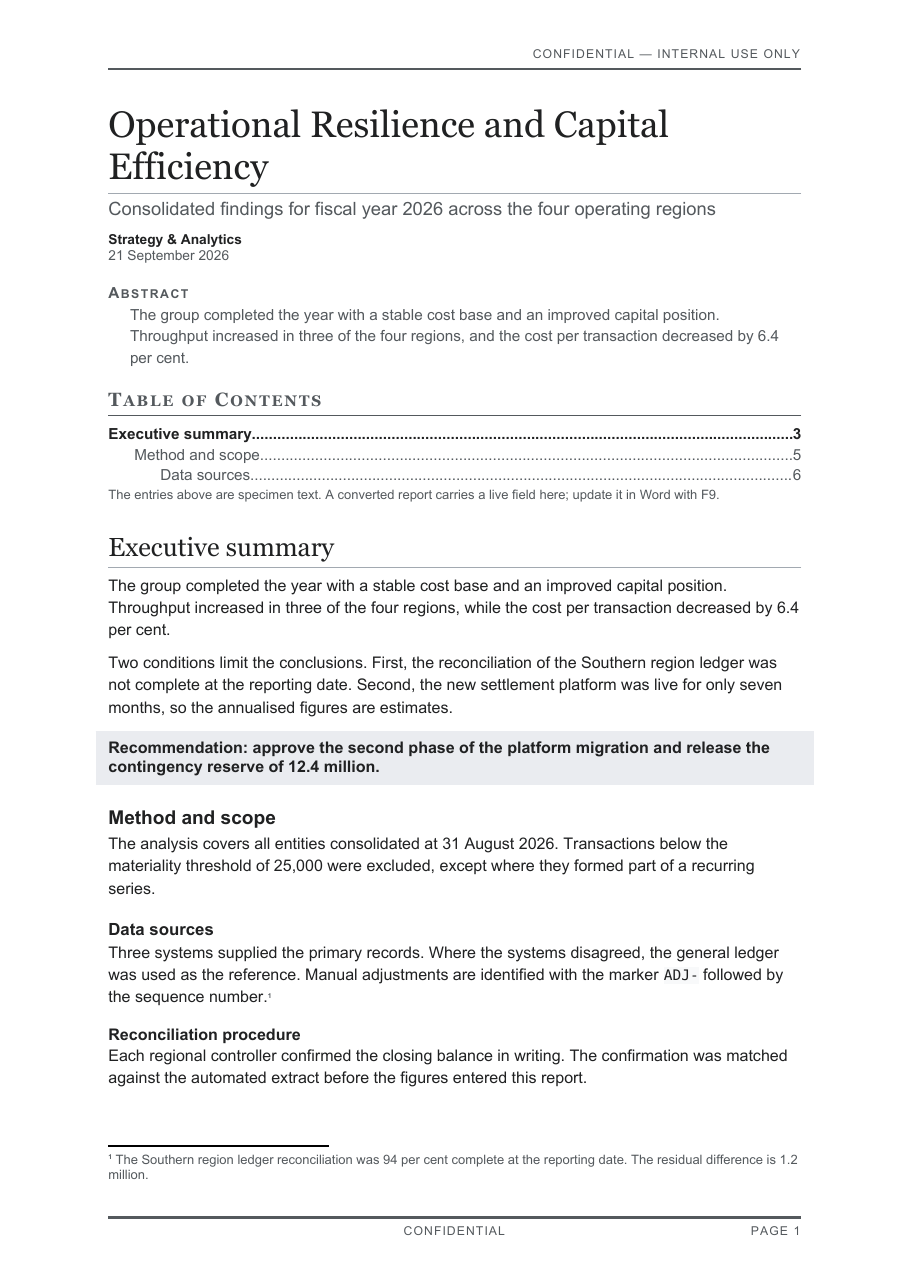
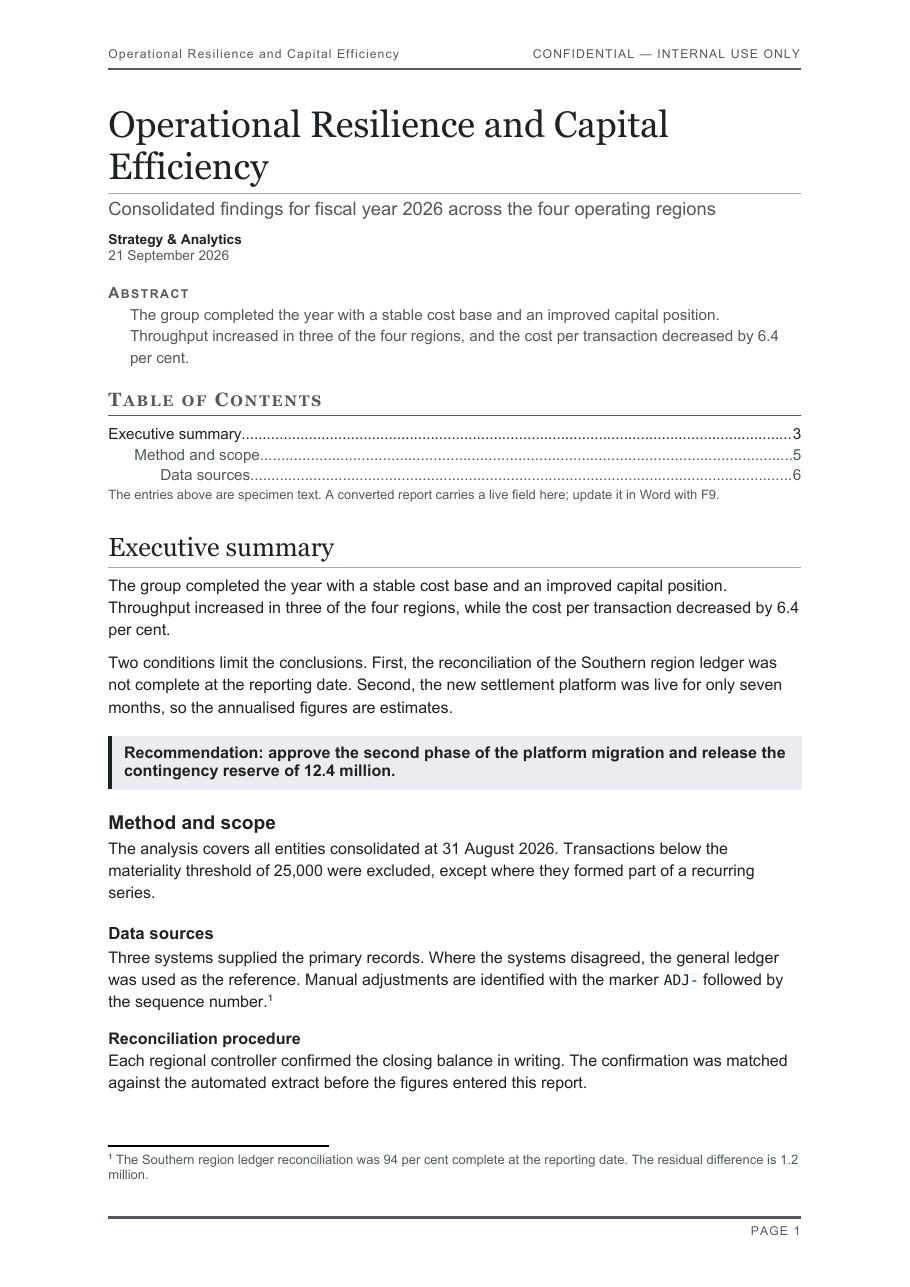
Refresh previews and README for the template fixes
Previews show the aligned boxes, restored accent bars, three-level numbering and the
titled running head. The README describes the head, numbering depth and hyphenation.

Claude-Session: https://claude.ai/code/session_01T3fp19CDdFKnm2BANxdQC1

Changed region(s): [[0.1231, 0.5594, 0.8615, 0.8702], [0.1231, 0.3108, 0.2769, 0.3419], [0.4923, 0.9324, 0.5231, 0.9635]]

diff --git a/README.md b/README.md
@@ -21,7 +21,7 @@ inventory always matches the installed pandoc (built and tested against pandoc 3
 
 | File | Style | Typeface | Accent | Headings | Tables | Density |
 |---|---|---|---|---|---|---|
-| `chancery-reference.docx` | A — classic executive | Aptos | Burgundy `8C1D34` | numbered 1.1.1, rule under H1 | hairline, rules only | medium, justified |
+| `chancery-reference.docx` | A — classic executive | Aptos | Burgundy `8C1D34` | numbered 1.1.1, rule under H1 | hairline, rules only | medium, justified and hyphenated |
 | `meridian-reference.docx` | B — modern and open | Aptos | Burgundy `8C1D34` | unnumbered, large and light | open, banded rows | low, much air |
 | `atlas-reference.docx` | D — bold editorial | Aptos | Burgundy `8C1D34` | unnumbered, heavy, accent rule above H1 | charcoal header band | medium |
 | `foundry-reference.docx` | C — dense technical | Calibri | Slate blue `21456E` | numbered 1.1.1, reversed H1 bar | full grid | high |
@@ -32,8 +32,8 @@ inventory always matches the installed pandoc (built and tested against pandoc 3
 spacing and colour, headings flush to the margin. Use it when Word keeps discarding
 style numbering, or when you would rather number with `--number-sections`.
 
-Differences that carry the identity: A justifies its text, numbers its headings and
-keeps every rule hairline. B triples the white space, drops numbering and sets a 32 pt
+Differences that carry the identity: A justifies and hyphenates its text, numbers its
+headings and keeps every rule hairline. B triples the white space, drops numbering and sets a 32 pt
 light title. D reverses the title block out of burgundy and runs a charcoal header band
 across its tables. E follows an encyclopedia page: serif title and top-level headings
 over a hairline rule, sans text, grey-framed tables, and colour only in code keywords,
@@ -98,7 +98,7 @@ serif character with a one-word change, if that matters more than the single typ
 
 ## Look before you choose
 
-Open any of them in Word. The body is a three-page specimen report using every
+Open any of them in Word. The body is a short specimen report using every
 style: title block, headings to level six, lists, definitions, quote, note and caution
 blocks, a table with caption and source note, a figure placeholder, an equation, a code
 block, a footnote, and static table of contents entries.
@@ -106,8 +106,9 @@ block, a footnote, and static table of contents entries.
 Pandoc reads only styles, numbering, page setup and the running head and foot from these
 files. The specimen text is discarded on every conversion.
 
-The running head carries the classification alone; the foot carries the classification
-and a page field. Both are placeholders — edit them once in the reference document.
+The running head shows the report title on the left, through a `STYLEREF` field on the
+Title style, and the classification on the right. The foot carries the page number. The
+classification is a placeholder — edit it once in the reference document.
 
 ## What the templates style
 
@@ -142,7 +143,9 @@ number.
 
 ## Heading numbers
 
-A and C number headings from a multilevel list bound to Heading 1–5. Word keeps
+A and C number headings from a multilevel list bound to Heading 1–3; deeper levels are
+not numbered. In C every number hangs at 1.5 cm, so all heading text starts on one
+edge. Word keeps
 style-linked numbering only when the file is written the way Word itself writes it, so
 the definition is a matched set:
 
@@ -165,6 +168,8 @@ Pandoc then writes each number as a run in the `Section Number` character style,
 followed by a tab. That style carries no formatting of its own, so numbers inherit the
 heading they sit in, and every numbered heading style has a tab stop at the matching
 indent.
+
+`--number-sections` numbers every level, not only the first three.
 
 Use one route or the other, never both: with style numbering still active,
 `--number-sections` produces headings that read `1 1 Executive summary`. For C, the
@@ -215,7 +220,9 @@ Source: consolidated ledger extract, 31 August 2026.
 ## Things to do by hand in Word
 
 - Update the TOC field (F9). Pandoc cannot fill it.
-- Edit the header and foot placeholder text in the reference document, not in reports.
+- Edit the classification in the reference document's head, not in reports.
+- Give every report a `title:`. The running head reads it from the Title paragraph; a
+  report without one shows a field error there.
 - Switch on *Table Design → Total Row* for a totals row; the accent rule and bold text
   are already defined in each table style.
 - List bullet and number glyphs come from pandoc's own numbering, not from the reference
